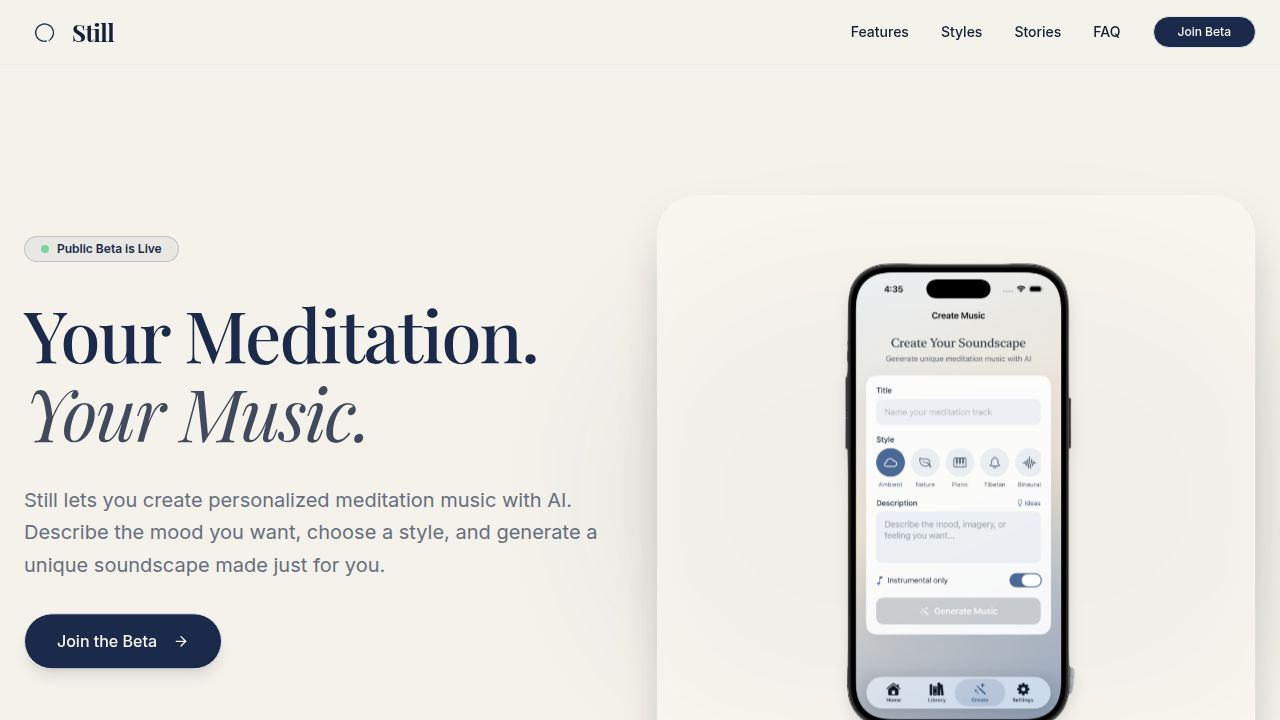
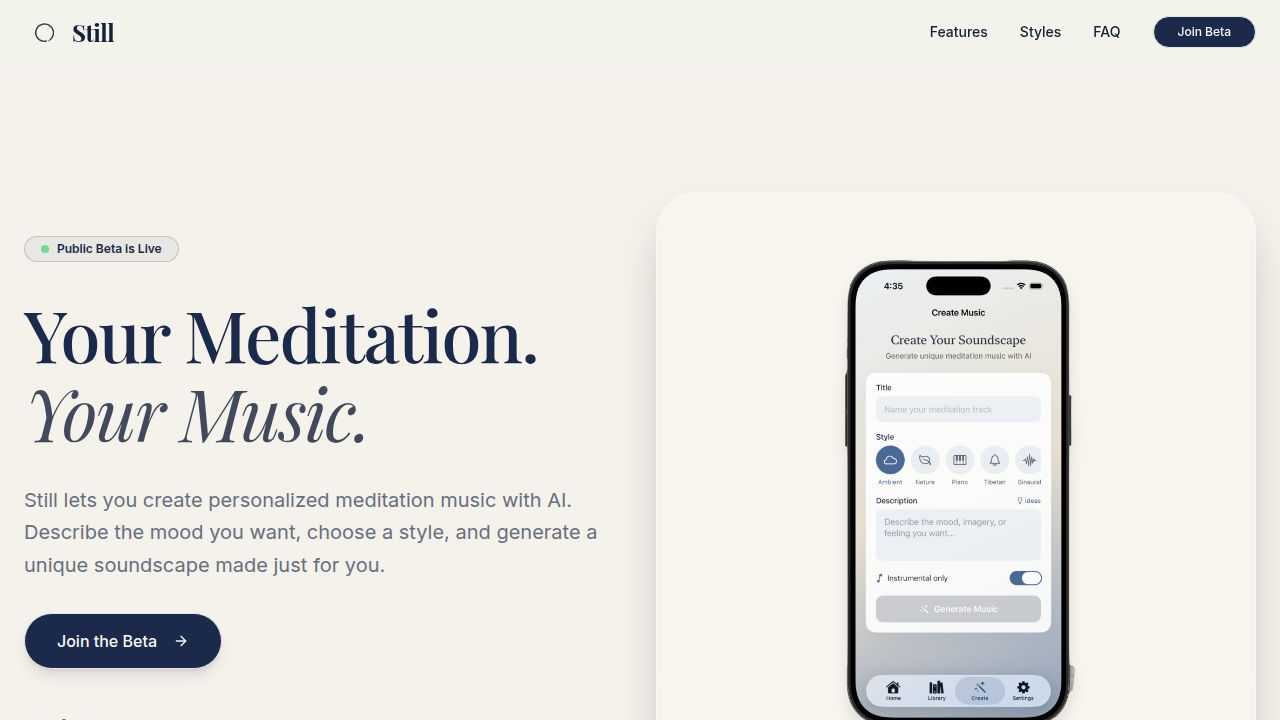
Add a popup form for users to join the beta program
Replaces the "Join Beta" button with a modal dialog containing input fields for name and email, and removes references to "Suno AI", "iPad", and outdated pricing information.

Replit-Commit-Author: Agent
Replit-Commit-Session-Id: 0a3a7c38-b7cd-4f18-bb64-6adce1bf6ea9
Replit-Commit-Checkpoint-Type: full_checkpoint
Replit-Commit-Event-Id: b21b11ab-f436-4626-a439-a2ad1dd600ba
Replit-Commit-Screenshot-Url: https://storage.googleapis.com/screenshot-production-us-central1/6ee001aa-e9ef-458e-a37c-67a454c1175c/0a3a7c38-b7cd-4f18-bb64-6adce1bf6ea9/NGdzYEp
Replit-Helium-Checkpoint-Created: true

diff --git a/client/src/pages/home.tsx b/client/src/pages/home.tsx
@@ -5,6 +5,9 @@ import { Button } from "@/components/ui/button";
 import { Badge } from "@/components/ui/badge";
 import { Card, CardContent } from "@/components/ui/card";
 import { Accordion, AccordionContent, AccordionItem, AccordionTrigger } from "@/components/ui/accordion";
+import { Dialog, DialogContent, DialogDescription, DialogHeader, DialogTitle, DialogTrigger } from "@/components/ui/dialog";
+import { Input } from "@/components/ui/input";
+import { Label } from "@/components/ui/label";
 import { Link } from "wouter";
 import logoImage from "@assets/STILL-APPP_1766960471016.png";
 import heroImage from "@assets/Red_and_White_Illustrative_Modern_Seafood_Restaurant_Facebook__1766958599467.png";
@@ -25,6 +28,35 @@ const staggerContainer = {
     }
   }
 };
+
+function JoinBetaDialog({ children }: { children: React.ReactNode }) {
+  return (
+    <Dialog>
+      <DialogTrigger asChild>
+        {children}
+      </DialogTrigger>
+      <DialogContent className="sm:max-w-md">
+        <DialogHeader>
+          <DialogTitle>Join the Beta</DialogTitle>
+          <DialogDescription>
+            Enter your details to get early access to Still.
+          </DialogDescription>
+        </DialogHeader>
+        <form className="space-y-4 py-4" onSubmit={(e) => { e.preventDefault(); }}>
+          <div className="space-y-2">
+            <Label htmlFor="name">Name</Label>
+            <Input id="name" placeholder="Enter your name" />
+          </div>
+          <div className="space-y-2">
+             <Label htmlFor="email">Email</Label>
+             <Input id="email" type="email" placeholder="Enter your email" />
+          </div>
+          <Button type="submit" className="w-full" size="lg">Join Waitlist</Button>
+        </form>
+      </DialogContent>
+    </Dialog>
+  );
+}
 
 export default function Home() {
   const [isMenuOpen, setIsMenuOpen] = useState(false);
@@ -53,9 +85,11 @@ export default function Home() {
             <button onClick={() => scrollToSection('features')} className="text-sm font-medium hover:text-primary transition-colors">Features</button>
             <button onClick={() => scrollToSection('styles')} className="text-sm font-medium hover:text-primary transition-colors">Styles</button>
             <button onClick={() => scrollToSection('faq')} className="text-sm font-medium hover:text-primary transition-colors">FAQ</button>
-            <Button size="sm" className="rounded-full px-6" onClick={() => scrollToSection('download')}>
-              Join Beta
-            </Button>
+            <JoinBetaDialog>
+              <Button size="sm" className="rounded-full px-6">
+                Join Beta
+              </Button>
+            </JoinBetaDialog>
           </div>
 
           {/* Mobile Menu Toggle */}
@@ -69,9 +103,11 @@ export default function Home() {
           <div className="md:hidden absolute top-16 left-0 right-0 bg-background border-b border-border/40 p-4 flex flex-col gap-4 shadow-lg animate-in slide-in-from-top-5">
             <button onClick={() => scrollToSection('features')} className="text-left px-4 py-2 hover:bg-secondary/50 rounded-lg">Features</button>
             <button onClick={() => scrollToSection('styles')} className="text-left px-4 py-2 hover:bg-secondary/50 rounded-lg">Styles</button>
-            <Button className="w-full rounded-full" onClick={() => scrollToSection('download')}>
-              Join Beta
-            </Button>
+            <JoinBetaDialog>
+              <Button className="w-full rounded-full">
+                Join Beta
+              </Button>
+            </JoinBetaDialog>
           </div>
         )}
       </nav>
@@ -108,9 +144,11 @@ export default function Home() {
               </motion.p>
               
               <motion.div variants={fadeIn} className="flex flex-wrap gap-4">
-                <Button size="lg" className="rounded-full px-8 h-14 text-base shadow-lg hover:shadow-xl transition-all hover:-translate-y-0.5" onClick={() => scrollToSection('download')}>
-                  Join the Beta <ArrowRight className="ml-2 w-4 h-4" />
-                </Button>
+                <JoinBetaDialog>
+                  <Button size="lg" className="rounded-full px-8 h-14 text-base shadow-lg hover:shadow-xl transition-all hover:-translate-y-0.5">
+                    Join the Beta <ArrowRight className="ml-2 w-4 h-4" />
+                  </Button>
+                </JoinBetaDialog>
               </motion.div>
               
               <motion.div variants={fadeIn} className="flex items-center gap-4 text-sm text-muted-foreground pt-4">
@@ -208,7 +246,7 @@ export default function Home() {
             <Badge variant="outline" className="mb-4">How It Works</Badge>
             <h2 className="font-serif text-4xl lg:text-5xl mb-6 text-primary">AI-Generated Meditation Music</h2>
             <p className="text-muted-foreground text-lg">
-              Powered by Suno AI, Still transforms your words into original meditation tracks. No two creations are the same.
+              Still transforms your words into original meditation tracks. No two creations are the same.
             </p>
           </div>
 
@@ -415,15 +453,11 @@ export default function Home() {
           {[
             {
               q: "How does the AI music generation work?",
-              a: "You describe the mood, imagery, or feeling you want. Choose a style (Ambient, Piano, Nature, etc.) and whether you want instrumental or vocals. Still uses Suno AI to generate a completely original meditation track based on your input."
+              a: "You describe the mood, imagery, or feeling you want. Choose a style (Ambient, Piano, Nature, etc.) and whether you want instrumental or vocals. Still uses AI to generate a completely original meditation track based on your input."
             },
             {
               q: "How long does it take to generate music?",
               a: "Typically 1-2 minutes. You'll see a progress indicator while your track is being created."
-            },
-            {
-              q: "Is Still free?",
-              a: "Yes, Still is free during the public beta. We'll introduce optional premium features in the future, but core functionality will remain accessible."
             },
             {
               q: "Can I use my generated music in meditation sessions?",
@@ -431,7 +465,7 @@ export default function Home() {
             },
             {
               q: "What devices are supported?",
-              a: "Still is available for iPhone running iOS 16 or later. iPad support is coming soon."
+              a: "Still is available for iPhone running iOS 16 or later."
             }
           ].map((faq, i) => (
             <AccordionItem key={i} value={`item-${i}`}>
@@ -454,10 +488,12 @@ export default function Home() {
            <p className="text-xl text-muted-foreground max-w-xl mx-auto">
              Describe what stillness sounds like to you. We'll make it real.
            </p>
-           <Button size="lg" className="h-16 px-10 rounded-full text-lg shadow-xl hover:scale-105 transition-transform">
-             <Apple className="mr-2 w-5 h-5" /> Download the Beta
-           </Button>
-           <p className="text-sm text-muted-foreground">Available on iOS 16 and later. Free during beta.</p>
+           <JoinBetaDialog>
+             <Button size="lg" className="h-16 px-10 rounded-full text-lg shadow-xl hover:scale-105 transition-transform">
+               Join the Beta
+             </Button>
+           </JoinBetaDialog>
+           <p className="text-sm text-muted-foreground">Available on iOS 16 and later.</p>
         </div>
       </section>
 
